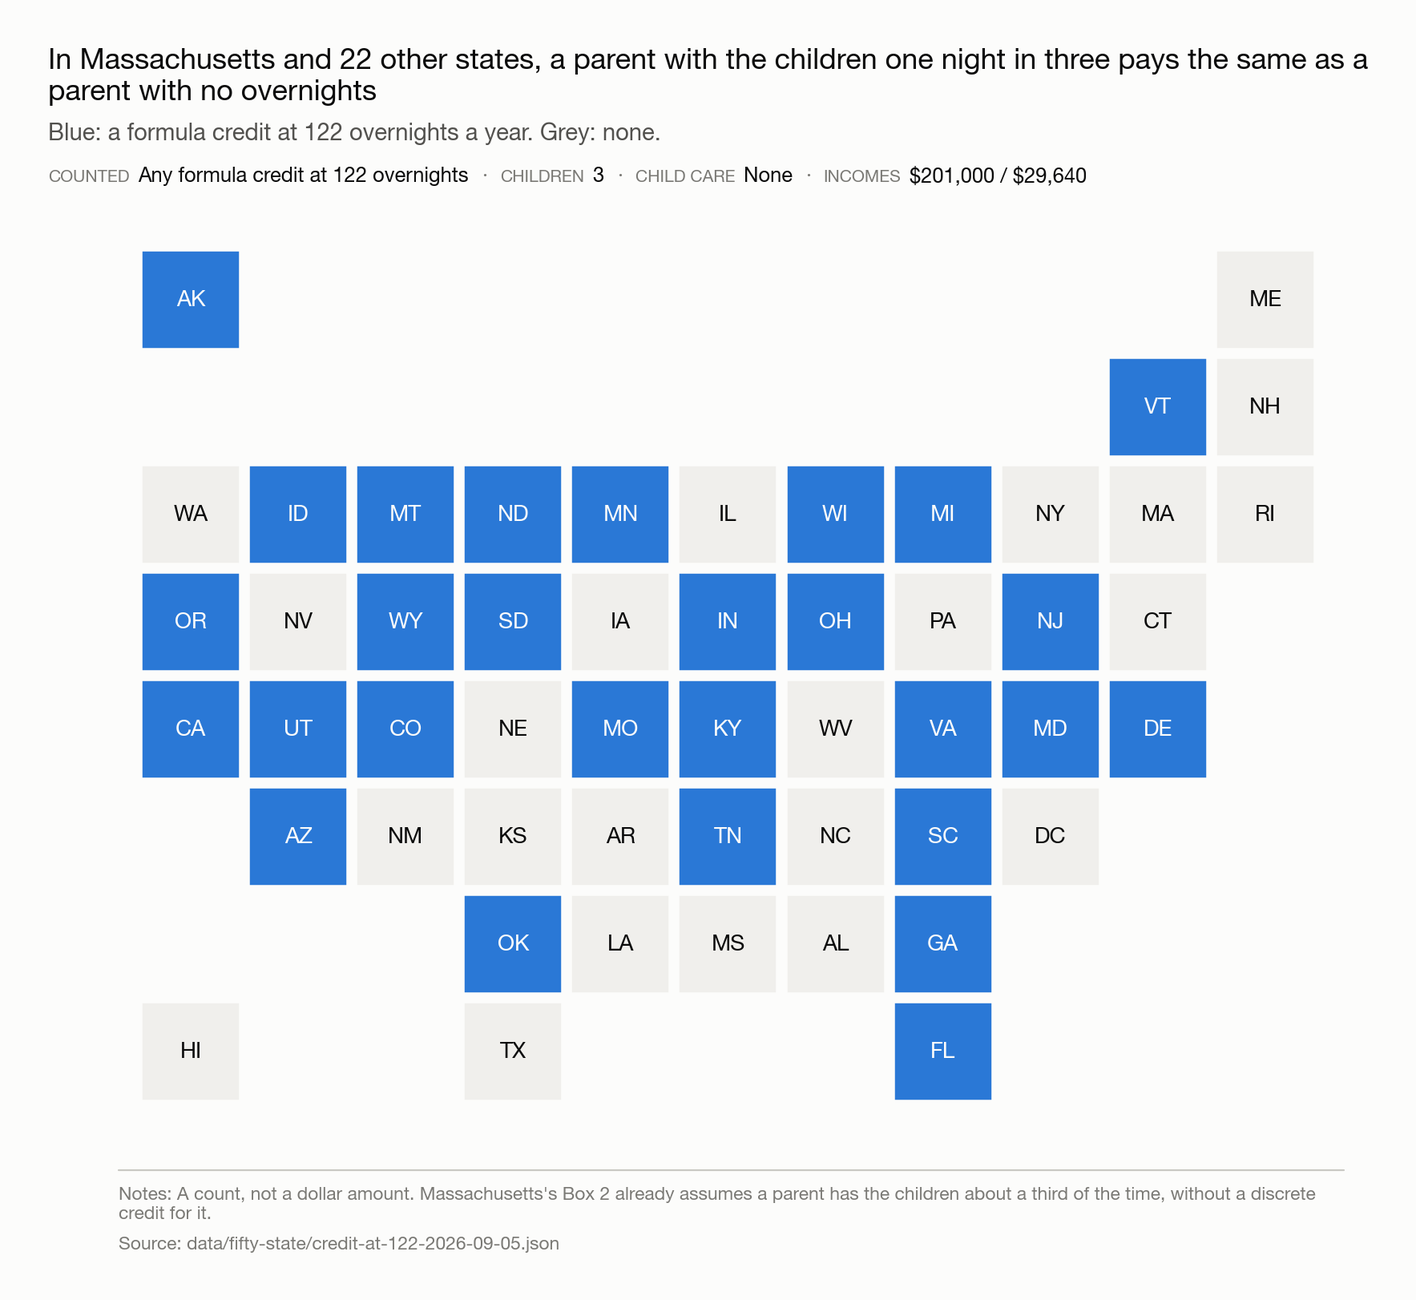
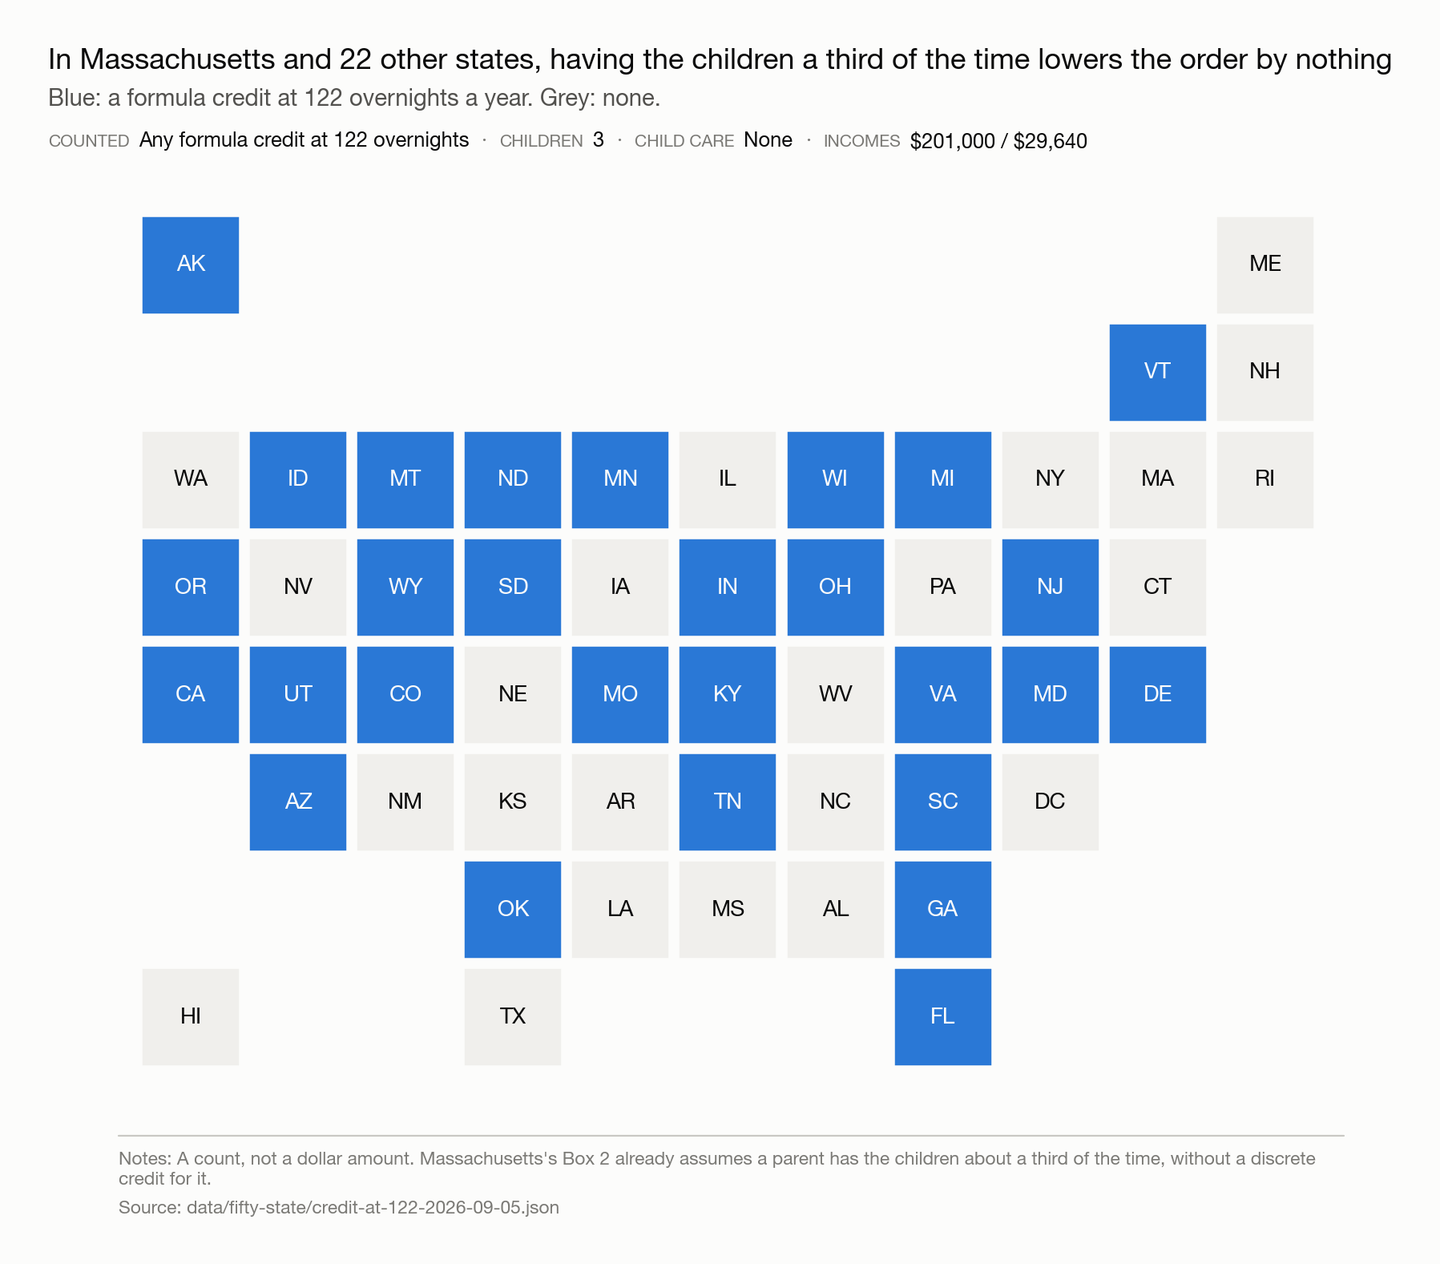
Plain-language pass on the findings page, the mission, and two headings
All owner-directed. Nothing here changes a figure; the figure gate re-anchored
six context strings onto rewritten lines and still reports 0 mismatches.

Findings page:
- h1 "Seven measurable effects in the worksheet's own arithmetic, ranked by how
  much each one changes the outcome" -> "Seven problems with the Massachusetts
  child support guidelines", with "Biggest first" moved into the standfirst.
- The cross-state comparison moves from 7 to 3 at the owner's instruction; the
  rest shift down.
- "The hardship test reads one income while the order is paid from another" ->
  "measures gross income when it should measure net", and the section now opens
  with the point in one bold sentence: supposed to fire at 40%, does not fire
  until 57% of net. Percent signs, not the word, per the owner.
- "The payor keeps 48 cents of the next dollar earned" -> "keeps less than half
  of every extra dollar earned".
- "Rebutting the presumptive order takes four written findings" -> "Challenging
  the order can cost more than it saves, so wrong orders go uncontested".
- The recipient-ahead section now leads on the 10% of income combinations rather
  than on the worked example, with the per-person caveat still travelling in the
  same sentence.
- The disclosure listed stats (55%, 47 of 49) that are no longer on the page.

Elsewhere:
- "The credit for equal parenting time contains no parenting-time term" -> "At
  wide income gaps, the credit for equal parenting time is extremely small".
[…]

diff --git a/index.html b/index.html
@@ -428,7 +428,7 @@ scripts:
     </div>
     <div class="body">
       <p class="tag">Verified against the form's own scripts</p>
-      <h3><a href="/findings/parenting-time/">The credit for equal parenting time contains no parenting-time term</a></h3>
+      <h3><a href="/findings/parenting-time/">At wide income gaps, the credit for equal parenting time is extremely small</a></h3>
       <p>Line 6g nets the parents' Line 6e amounts; no count of overnights enters at any point.</p>
       <div class="stat">
         <span class="stat-value">6.9%</span>

diff --git a/findings/index.md b/findings/index.md
@@ -7,23 +7,24 @@ description: >-
   plus one fifty-one-jurisdiction comparison at a single fact pattern.
 disclosure:
   - >-
-    The stat on each card below (55%, 88 cents, 6.9%, 47 of 49) comes from the worked example
-    used throughout this site: three children, the payor's income and the other parent's income
-    entered as the Worksheet requires. They are Worksheet figures from a real Massachusetts case, and neither is either parent's current income. I pay child support in Massachusetts myself, so I
-    have a stake in the outcome. Each finding page states why, and shows the same gap holding
-    across a range of incomes as well as at this example's figures.
+    The figures below (88 cents, 6.9%, 57%, 48%) come from the worked example used throughout this
+    site: three children, the payor's income and the other parent's income entered as the
+    Worksheet requires. They are Worksheet figures from a real Massachusetts case, and neither is
+    either parent's current income. I pay child support in Massachusetts myself, so I have a stake
+    in the outcome. Each finding page shows the same gap holding across a range of incomes as
+    well as at this example's figures.
   - >-
     Every number traces to <a href="/model/worksheet.py"><code>model/worksheet.py</code></a>,
     checked by <a href="/model/test_worksheet.py"><code>model/test_worksheet.py</code></a>
     against the form's own calculation scripts. More on <a href="/about/">About</a>.
 ---
 
-# Seven measurable effects in the worksheet's own arithmetic, ranked by how much each one changes the outcome
+# Seven problems with the Massachusetts child support guidelines
 
 {% include disclosure.html %}
 
-Each finding traces to a script in this repository, or, for the fourth, to the guidelines' own
-text on deviation.
+Each one traces to a script in this repository, or, for the sixth, to the guidelines' own text
+on deviation. Biggest first.
 
 ## 1. The payor funds 88 cents of every dollar of child care, on money the order has already moved to the other parent
 
@@ -71,77 +72,7 @@ from that caution.
 
 [Read the full finding →](/findings/parenting-time/)
 
-## 3. The hardship test reads one income while the order is paid from another
-
-<p class="confidence-tag">Verified against the form's own calculation scripts</p>
-
-Section IV.C treats an order at 40 percent of income as a presumptive hardship, and Line 7e is the
-box on the Worksheet that tests for it. Line 7e divides by Line 3a available income, which is
-gross income less health premiums and any other support orders, and carries no tax adjustment of
-any kind, while the order itself is paid out of net. So the test and the payment are in
-different units, and the gap between them widens as the payor's tax rate rises. At the worked
-example the presumption does not kick in until the payor is at 57 percent of net pay, 17 points
-past the level the Guidelines themselves call a hardship.
-
-[Read the full finding →](/findings/hardship-test/)
-
-## 4. The payor keeps 48 cents of the next dollar earned
-
-<p class="confidence-tag">Verified against the form's own calculation scripts</p>
-
-Of the next $10,000 the payor earns at $201,000, 20.3 percent goes to the order and 31.3 percent to
-combined income and payroll tax, leaving 48.3 percent — above Table A's own 10 percent top
-bracket, because the child-count multiplier and the payor's rising income share both scale up with income.
-The same computation keeps the payor's retention between 39 and 48 percent from $150,000 to $300,000 of
-payor income.
-
-{% include figure.html
-   id="e10"
-   img="/figures/exhibits/E10-cents-kept-of-next-dollar-worked-example.png"
-   alt="Line chart of cents kept of the payor's next dollar of income, from $100,000 to $400,000 of payor income, both with and without $300 a week of child care."
-   title="Of the payor's next dollar, the payor keeps between a third and a half."
-   deck="Marginal retention after federal and state tax and the change in the order."
-   notes="The order's marginal take runs near 20 percent, above Table A's 10 percent top bracket, because the child-count multiplier and the rising income share both scale with the payor's income. $5,000 steps. Dashed line: 50 cents. Two of three children under 13 (MA credit); premiums $43/$33."
-   source_script="model/charts/fig4_retention.py · model/marginal_retention.py"
-   csv_href="/figures/working/fig4_marginal_retention.csv" %}
-
-## 5. Rebutting the presumptive order takes four written findings, which can cost more than the amount in dispute
-
-<p class="confidence-tag">The deviation data is the Commonwealth's own; the rate at which a contested deviation succeeds is not measured anywhere in it.</p>
-
-Federal law requires the guidelines amount to carry a rebuttable presumption, and Massachusetts's
-own guidelines make rebutting it conditional on a judge making four specific findings: the
-guidelines amount, that applying it would be unjust or inappropriate, the facts justifying
-departure, and that departure is consistent with the child's best interest. Meeting that bar costs
-legal time, so contesting a child care claim or a parenting-time credit worth a few thousand
-dollars a year can cost more than the amount in dispute. The Commonwealth publishes how often the
-presumption is rebutted, but not the one number that would say whether contesting is worth it: how
-often a deviation motion the parties did not simply agree to still succeeds.
-
-## 6. After tax and the order, the payor holds more than the recipient household, in total and per person
-
-<p class="confidence-tag">Verified against the form's own calculation scripts</p>
-
-At the worked example, the payor keeps $87,172 a year and the recipient's household holds
-$77,395, $19,349 per person. That figure comes from the withholding basis: federal and
-Massachusetts income tax, Social Security and Medicare, no refundable credits. It is used because a figure
-that turns on which parent claims which child on a given year's taxes is not one CJ-D 304 collects
-or a reader can reproduce from published rate tables alone.
-Across a wider range of incomes the recipient's household still ends up ahead in total in about
-10 percent of combinations, even though the payor holds more per person in 99 percent of them
-(E01, E02).
-
-{% include figure.html
-   id="e01"
-   img="/figures/exhibits/E01-who-holds-more-3-children.png"
-   alt="Heatmap of the recipient household's net income minus the payor's, in dollars per year, across combinations of higher-earner gross income from $60,000 to $300,000 and lower-earner gross income from $0 to $120,000, three children, equal parenting time, no child care."
-   title="With three children, the recipient household holds more after the order in 10 percent of income combinations."
-   deck="Recipient household net minus payor net, per year."
-   notes="Of the 10 percent of the grid where the recipient household is ahead, 75 percent sits below $150,000 of higher-earner income, and none above $175,000. The closed contour inside the red region is Line 6e's limitation, which stops binding once the payor's Line 6d crosses 10 percent; the order then drops about $110 a week in one step. Per person the payor still leads almost everywhere (E02). Masked where the lower earner would out-earn the higher. Premiums $43/$33 a week; MA under-13 credit set to zero; no refundable tax credits counted."
-   source_script="model/charts/fig1_heatmaps.py · model/worksheet.py · model/net_position.py"
-   csv_href="/figures/working/fig1_heatmap_3child_box1.csv" %}
-
-## 7. Massachusetts charges more for equal parenting time than 47 states charge a parent who has the children a third of the time
+## 3. Massachusetts charges more for equal parenting time than 47 states charge a parent who has the children a third of the time
 
 <p class="confidence-tag">Tiered: a single fact pattern; see method</p>
 
@@ -161,6 +92,81 @@ its enacted formula orders less at equal time than at primary custody.
    csv_href="/figures/working/fig5_states.csv" %}
 
 [Read the full finding →](/findings/fifty-one-jurisdictions/)
+
+## 4. The hardship test measures gross income when it should measure net
+
+<p class="confidence-tag">Verified against the form's own calculation scripts</p>
+
+**The hardship presumption is supposed to fire at 40% of the payor's income. It does not fire
+until the order takes 57% of the payor's net pay.**
+
+Section IV.C calls an order at 40% of income a presumptive hardship, and Line 7e is the box on the
+Worksheet that tests for it. But Line 7e divides by Line 3a, which is gross income less health
+premiums and any other support orders and carries no tax adjustment at all, while the order is
+paid out of net. The test is in gross, the payment is in net, and the gap between them widens as
+the payor's tax rate rises. At the worked example that gap is 17 points.
+
+[Read the full finding →](/findings/hardship-test/)
+
+## 5. The payor keeps less than half of every extra dollar earned
+
+<p class="confidence-tag">Verified against the form's own calculation scripts</p>
+
+At $201,000, of the next $10,000 the payor earns, 20.3% goes to the order and 31.3% to income and
+payroll tax. The payor keeps 48.3%. The order's share of a raise is roughly double Table A's own
+10% top bracket, because the child-count multiplier and the payor's rising income share both scale
+up with income. Across $150,000 to $300,000 of payor income the share kept stays between 39% and
+48%, so the effect is not particular to this example.
+
+{% include figure.html
+   id="e10"
+   img="/figures/exhibits/E10-cents-kept-of-next-dollar-worked-example.png"
+   alt="Line chart of cents kept of the payor's next dollar of income, from $100,000 to $400,000 of payor income, both with and without $300 a week of child care."
+   title="Of the payor's next dollar, the payor keeps between a third and a half."
+   deck="Marginal retention after federal and state tax and the change in the order."
+   notes="The order's marginal take runs near 20 percent, above Table A's 10 percent top bracket, because the child-count multiplier and the rising income share both scale with the payor's income. $5,000 steps. Dashed line: 50 cents. Two of three children under 13 (MA credit); premiums $43/$33."
+   source_script="model/charts/fig4_retention.py · model/marginal_retention.py"
+   csv_href="/figures/working/fig4_marginal_retention.csv" %}
+
+## 6. Challenging the order can cost more than it saves, so wrong orders go uncontested
+
+<p class="confidence-tag">The deviation data is the Commonwealth's own; the rate at which a contested deviation succeeds is not measured anywhere in it.</p>
+
+Federal law requires the guidelines amount to carry a rebuttable presumption, and Massachusetts's
+own guidelines make rebutting it conditional on a judge making four specific findings: the
+guidelines amount, that applying it would be unjust or inappropriate, the facts justifying
+departure, and that departure is consistent with the child's best interest. Meeting that bar costs
+legal time, so contesting a child care claim or a parenting-time credit worth a few thousand
+dollars a year can cost more than the amount in dispute. The Commonwealth publishes how often the
+presumption is rebutted, but not the one number that would say whether contesting is worth it: how
+often a deviation motion the parties did not simply agree to still succeeds.
+
+## 7. At equal parenting time, the recipient household ends up with more money than the payor in 10% of income combinations
+
+<p class="confidence-tag">Verified against the form's own calculation scripts</p>
+
+Across the three-child equal-time grid, the recipient's household ends up holding more money than
+the payor in about 10% of income combinations. The payor still holds more per person in
+99% of them, because that household is supporting four people and the payor one (E01, E02).
+
+At this site's own worked example the payor is the one ahead, keeping $87,172 a year
+against the recipient household's $77,395,
+which is $19,349 each for the four people in it.
+
+Both figures come from the withholding basis — federal and Massachusetts income tax, Social
+Security and Medicare, no refundable credits — because a figure that turns on which parent claims
+which child in a given year is not something CJ-D 304 collects or a reader can reproduce from
+published rate tables.
+
+{% include figure.html
+   id="e01"
+   img="/figures/exhibits/E01-who-holds-more-3-children.png"
+   alt="Heatmap of the recipient household's net income minus the payor's, in dollars per year, across combinations of higher-earner gross income from $60,000 to $300,000 and lower-earner gross income from $0 to $120,000, three children, equal parenting time, no child care."
+   title="With three children, the recipient household holds more after the order in 10 percent of income combinations."
+   deck="Recipient household net minus payor net, per year."
+   notes="Of the 10 percent of the grid where the recipient household is ahead, 75 percent sits below $150,000 of higher-earner income, and none above $175,000. The closed contour inside the red region is Line 6e's limitation, which stops binding once the payor's Line 6d crosses 10 percent; the order then drops about $110 a week in one step. Per person the payor still leads almost everywhere (E02). Masked where the lower earner would out-earn the higher. Premiums $43/$33 a week; MA under-13 credit set to zero; no refundable tax credits counted."
+   source_script="model/charts/fig1_heatmaps.py · model/worksheet.py · model/net_position.py"
+   csv_href="/figures/working/fig1_heatmap_3child_box1.csv" %}
 
 <div class="ask">
   <h2>Check it yourself</h2>

diff --git a/exhibits/index.md b/exhibits/index.md
@@ -48,7 +48,7 @@ comparison always carries its per-person counterpart.
 17. [Two homes, one child each, cost 43 percent more on the schedule than one home with two.](#e24)
 18. [At equal parenting time, Massachusetts orders the most of the fifty states.](#e11)
 19. [With the lower earner primary, only Hawaii orders more than Massachusetts.](#e12)
-20. [In Massachusetts and 22 other states, a parent with the children one night in three pays the same as a parent with no overnights.](#e13)
+20. [In Massachusetts and 22 other states, having the children a third of the time lowers the order by nothing.](#e13)
 21. [Massachusetts's presumptive formula runs to $450,000; 12 schedules run higher, 28 stop lower.](#e16)
 22. [Only Wisconsin and Hawaii order more than Massachusetts does at equal time.](#e17)
 23. [Five reviews have taken up gross versus net. None changed it.](#e27)
@@ -697,7 +697,7 @@ comparison always carries its per-person counterpart.
 
 <figure class="exhibit" id="e13">
   <a class="lightbox-trigger" data-lightbox href="/figures/exhibits/E13-credit-at-122-overnights-28-of-51.png"
-     data-caption="In Massachusetts and 22 other states, a parent with the children one night in three pays the same as a parent with no overnights."
+     data-caption="In Massachusetts and 22 other states, having the children a third of the time lowers the order by nothing."
      data-csv-href="/data/fifty-state/credit-at-122-2026-09-05.json" data-csv-label="Data (JSON)">
   <img src="/figures/exhibits/E13-credit-at-122-overnights-28-of-51.png"
          loading="lazy"
@@ -705,7 +705,7 @@ comparison always carries its per-person counterpart.
   </a>
   <figcaption>
     <p class="confidence-tag">Tiered: a single fact pattern; see method</p>
-    <h3 class="exhibit-title">In Massachusetts and 22 other states, a parent with the children one night in three pays the same as a parent with no overnights.</h3>
+    <h3 class="exhibit-title">In Massachusetts and 22 other states, having the children a third of the time lowers the order by nothing.</h3>
     <p class="exhibit-deck">Twenty-eight states give that parent a formula credit; 23 do not. Blue: a credit at 122 overnights a year. Grey: none.</p>
     <dl class="exhibit-facts">
       <div><dt>Counted</dt><dd>Any formula credit at 122 overnights</dd></div>

diff --git a/findings/fifty-one-jurisdictions/index.md b/findings/fifty-one-jurisdictions/index.md
@@ -269,7 +269,7 @@ split, or the number of children, and every ranking below could move, in either 
 
 <section id="credit-count" markdown="1">
 
-## In Massachusetts and 22 other states, a parent with the children one night in three pays the same as a parent with no overnights.
+## In Massachusetts and 22 other states, having the children a third of the time lowers the order by nothing.
 
 Massachusetts's primary-custody box already assumes the paying parent has the children about a
 third of the time and gives nothing for it: the order is the same as for a parent with no
@@ -277,7 +277,7 @@ overnights.
 
 <figure class="exhibit" id="e13">
   <a class="lightbox-trigger" data-lightbox href="/figures/exhibits/E13-credit-at-122-overnights-28-of-51.png"
-     data-caption="In Massachusetts and 22 other states, a parent with the children one night in three pays the same as a parent with no overnights."
+     data-caption="In Massachusetts and 22 other states, having the children a third of the time lowers the order by nothing."
      data-csv-href="/data/fifty-state/credit-at-122-2026-09-05.json" data-csv-label="Data (JSON)">
   <img src="/figures/exhibits/E13-credit-at-122-overnights-28-of-51.png"
          width="1736" height="1554"
@@ -285,7 +285,7 @@ overnights.
          alt="Tile map of fifty-one jurisdictions showing which give a formula-based child support credit at 122 overnights, about one-third time, and which do not.">
   </a>
   <figcaption>
-    <h3 class="exhibit-title">In Massachusetts and 22 other states, a parent with the children one night in three pays the same as a parent with no overnights.</h3>
+    <h3 class="exhibit-title">In Massachusetts and 22 other states, having the children a third of the time lowers the order by nothing.</h3>
     <p class="exhibit-deck">Twenty-eight states give that parent a formula credit; 23 do not. A count, not a dollar amount.</p>
     <p class="exhibit-notes">In the one clean pairing with a credit-giving state the dollar effect runs the other way, so the count is a structural fact and nothing more.</p>
     <p class="exhibit-source">Source: <a href="/data/fifty-state/credit-at-122-2026-09-05.json">data (JSON)</a></p>

diff --git a/README.md b/README.md
@@ -18,7 +18,7 @@ drawn from them. Everything a reader needs to check a number is here.
 2. **Child care is split on an income measure the form has already adjusted away from.** Line 6b
    allocates child care on pre-transfer income shares after base support has moved money between the
    households. [E06](figures/exhibits/E06-child-care-share-three-rules-worked-example.png)
-3. **The credit for equal parenting time contains no parenting-time term.** It is the difference in
+3. **At wide income gaps, the credit for equal parenting time is extremely small.** It is the difference in
    income shares, clipped by Line 6e, so it shrinks as the income gap widens. Going from a third of
    the time to half lowers the order 75 percent when the parents earn about the same, and 7 percent
    when one parent earns 88 percent of the total.

diff --git a/index.md b/index.md
@@ -18,7 +18,7 @@ drawn from them. Everything a reader needs to check a number is here.
 2. **Child care is split on an income measure the form has already adjusted away from.** Line 6b
    allocates child care on pre-transfer income shares after base support has moved money between the
    households. [E06](figures/exhibits/E06-child-care-share-three-rules-worked-example.png)
-3. **The credit for equal parenting time contains no parenting-time term.** It is the difference in
+3. **At wide income gaps, the credit for equal parenting time is extremely small.** It is the difference in
    income shares, clipped by Line 6e, so it shrinks as the income gap widens. Going from a third of
    the time to half lowers the order 75 percent when the parents earn about the same, and 7 percent
    when one parent earns 88 percent of the total.

diff --git a/about/index.md b/about/index.md
@@ -25,9 +25,8 @@ had a proper review. No task force has examined how its math actually works econ
 figure on this site comes from a published model with tests, so anyone can check the arithmetic
 instead of taking a position on trust.
 
-An independent Massachusetts child support payor built this site, with no institution, lawyer or
-economist behind the numbers. That is the reason the code and the data are published rather than
-summarised: the arithmetic is meant to be checked, not believed.
+A child support payor with no affiliation to any organization built this site, working from the
+arithmetic in the Worksheet. The math speaks for itself.
 
 {% include disclosure.html %}
 
